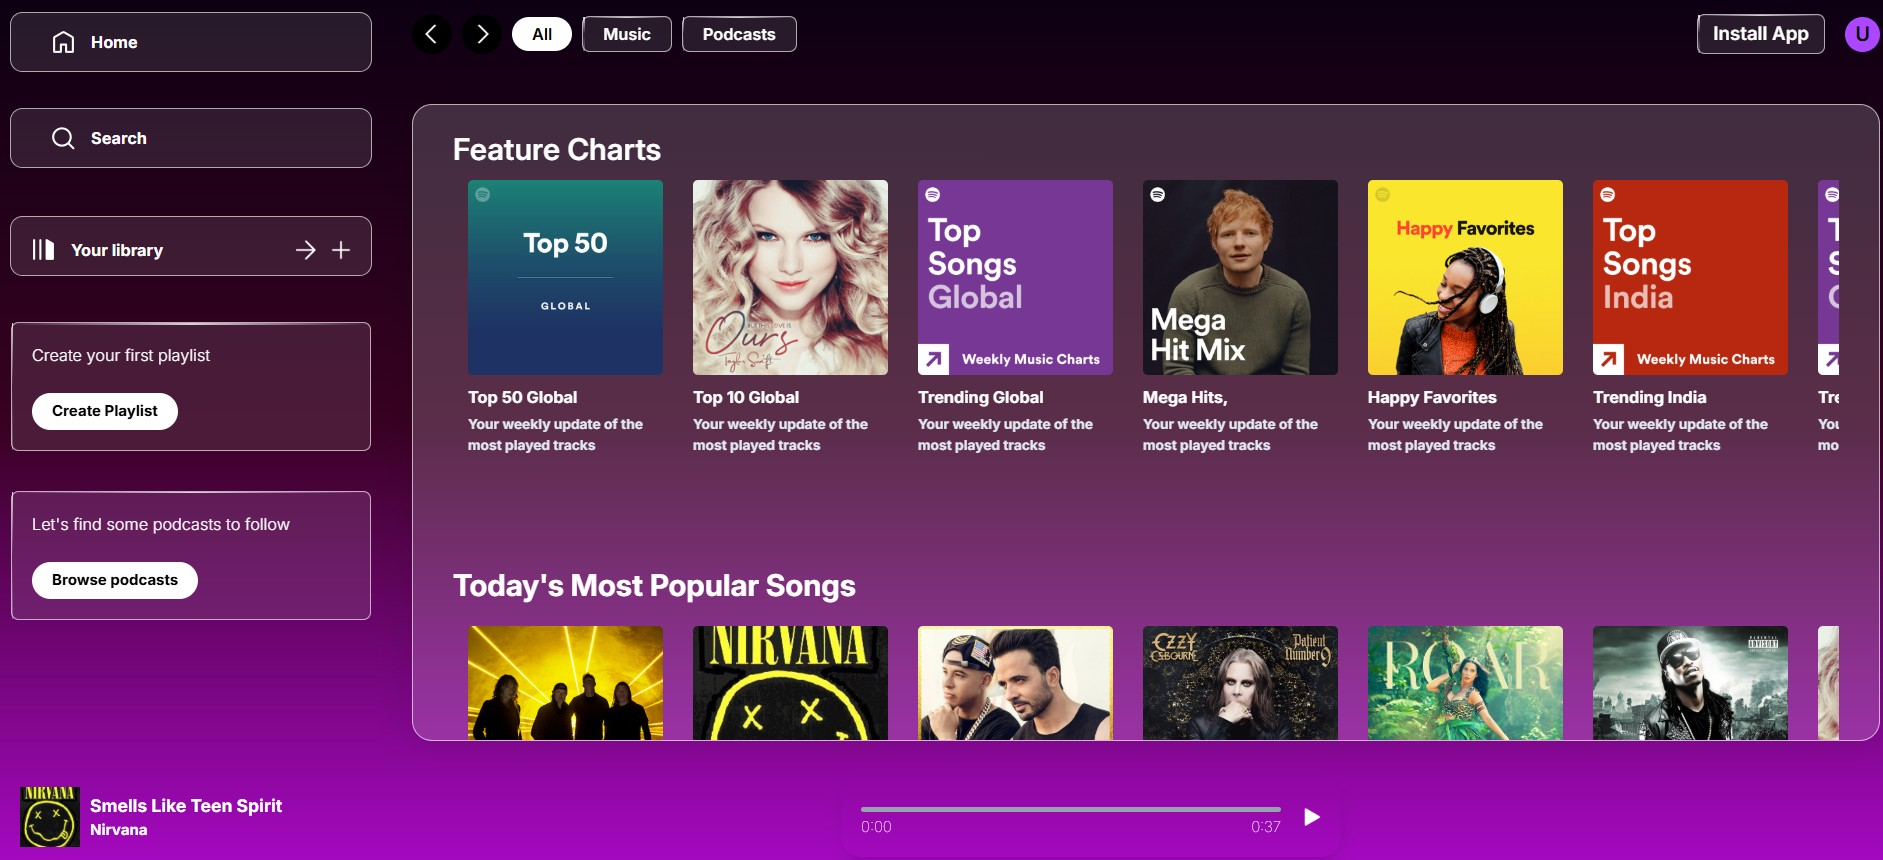
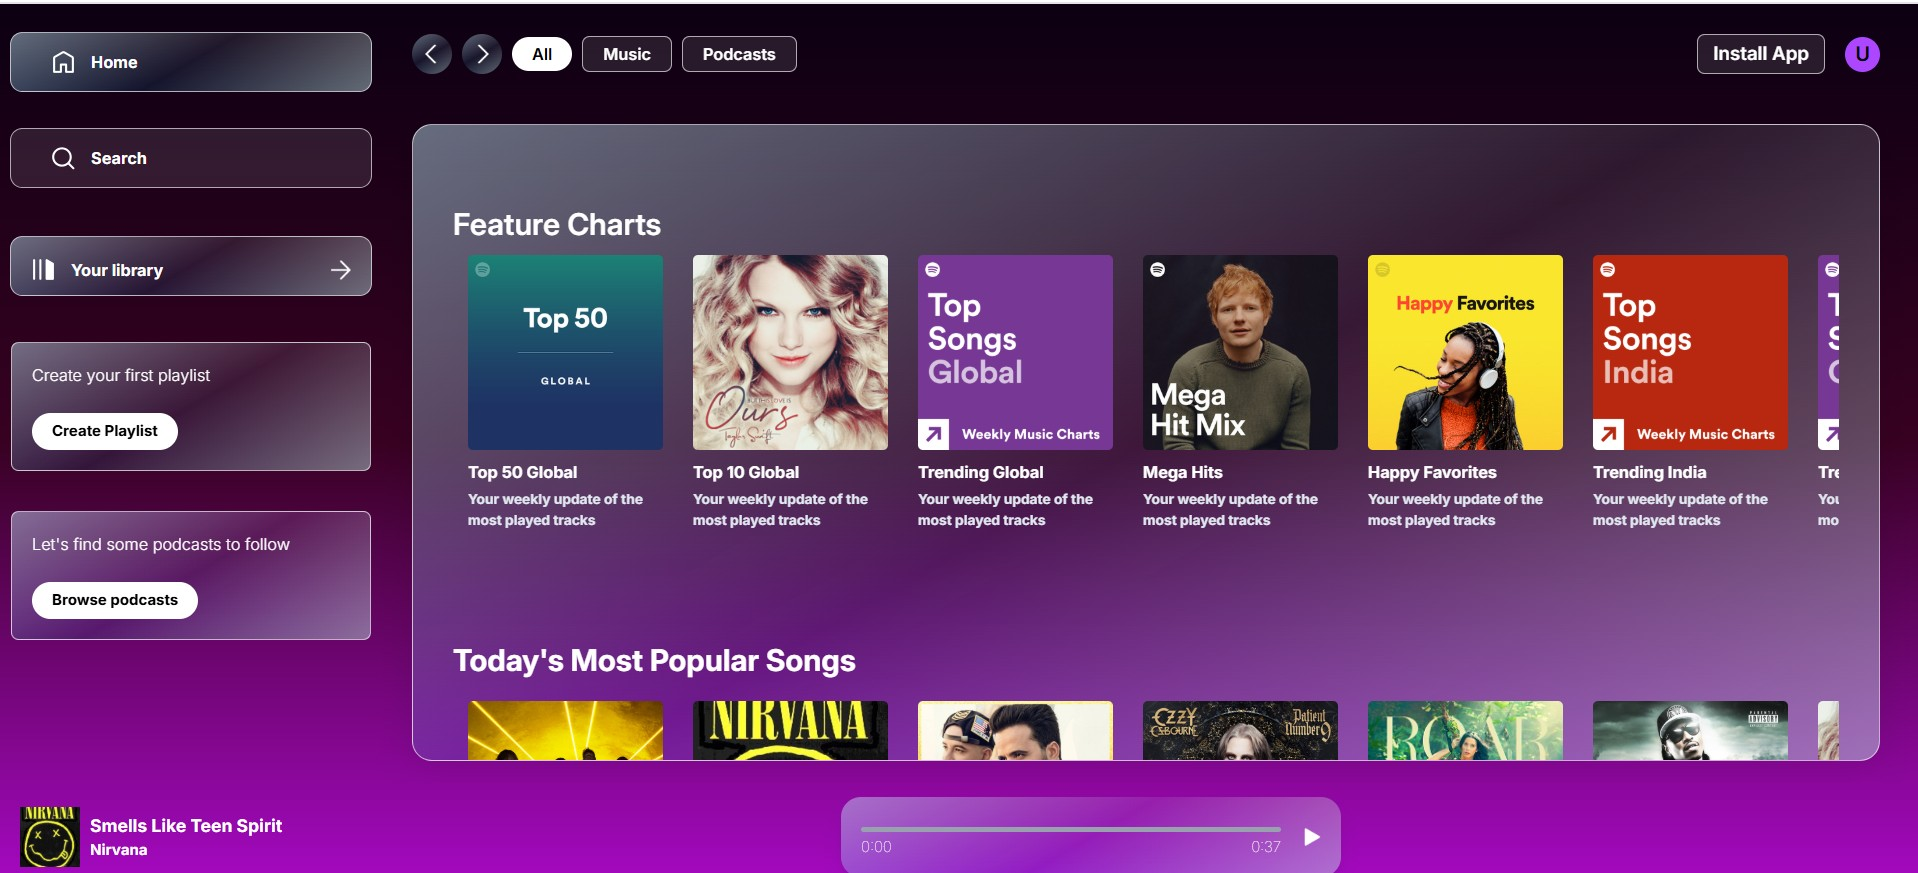
Change styling

diff --git a/src/components/Sidebar.jsx b/src/components/Sidebar.jsx
@@ -6,16 +6,17 @@ export function Sidebar() {
     return (
         <div className="w-[20%] h-full p-2 flex-col gap-6 text-white hidden lg:flex">
             <div className="h-[25%]  flex flex-col justify-around">
-                <div onClick={()=>navigate('/')} className="flex  glass-effect glass-button items-center gap-3 pl-8 cursor-pointer">
+                <div onClick={()=>navigate('/')} className="flex  glass-effect glass-diagonal-gradient  glass-button items-center gap-3 pl-8 cursor-pointer">
                     <img className='w-5' src={assets.home_icon} />
                     <p  className='text-[13px] font-bold'>Home</p>
                 </div>
                 <div className="flex glass-effect glass-button items-center gap-3 pl-8 cursor-pointer">
                     <img className='w-5' src={assets.search_icon} />
-                    <p  className='text-[13px] font-bold'>Search</p>
+                    <p contentEditable={true} className='text-[13px] font-bold'>Search</p>
+                    
                 </div>
             </div>
-            <div className='glass-effect glass-button h-[85%] rounded'>
+            <div className='glass-effect glass-diagonal-gradient  glass-button h-[85%] rounded'>
                 <div className='p-4 flex items-center justify-between'>
                     <div className='flex items-center gap-3'>
                         <img className='w-5' src={assets.stack_icon} />
@@ -23,14 +24,13 @@ export function Sidebar() {
                     </div>
                     <div className='flex items-center gap-3'>
                         <img className='w-4' src={assets.arrow_icon} />
-                        <img className='w-4' src={assets.plus_icon} />
                     </div>
                 </div>
-                <div className='p-4 bg-[#242424] glass-card my-8 font-light flex flex-col items-start justify-start gap-1 pl-4'>
+                <div className='glass-diagonal-gradient p-4 bg-[#242424] glass-card my-8 font-light flex flex-col items-start justify-start gap-1 pl-4'>
                     <p className='text-[13px]'>Create your first playlist</p>
                     <button className="px-4 py-1.5 bg-white text-[12px] text-black font-bold rounded-full mt-4">Create Playlist</button>
                 </div>
-                <div className="p-4 bg-[#242424] glass-card my-8  font-light flex flex-col items-start justify-start gap-1 pl-4 mt-4">
+                <div className="glass-diagonal-gradient p-4 bg-[#242424] glass-card my-8  font-light flex flex-col items-start justify-start gap-1 pl-4 mt-4">
                     <p className='text-[13px]'>Let's find some podcasts to follow</p>
                     <button className="px-4 py-1.5 bg-white text-[12px] text-black font-bold rounded-full mt-4">Browse podcasts</button>
                 </div>

diff --git a/src/index.css b/src/index.css
@@ -37,8 +37,9 @@ body {
   height: 48px;
 }
 
-.album-card:hover, .song-card:hover {
-   background: linear-gradient(-30deg,
+.album-card:hover,
+.song-card:hover {
+  background: linear-gradient(-30deg,
       rgba(220, 238, 227, 0.4),
       transparent 50%,
       rgba(191, 233, 247, 0.4)),
@@ -78,13 +79,6 @@ body {
   border-radius: 6px;
   background: rgba(255, 255, 255, 0.101);
   transition: transform 0.3s cubic-bezier(0.4, 0, 0.2, 1);
-   background: linear-gradient(-30deg,
-      rgba(220, 238, 227, 0.4),
-      transparent 50%,
-      rgba(191, 233, 247, 0.4)),
-    linear-gradient(to bottom,
-      rgba(216, 240, 248, 0.1),
-      rgba(0, 191, 255, 0.1));
 }
 
 
@@ -104,7 +98,24 @@ body {
   left: 0;
   width: 1px;
   height: 100%;
+} 
+
+.glass-diagonal-gradient {
+  background: linear-gradient(-30deg,
+      rgba(220, 238, 227, 0.4),
+      transparent 50%,
+      rgba(191, 233, 247, 0.4)),
+    linear-gradient(to bottom,
+      rgba(216, 240, 248, 0.1),
+      rgba(0, 191, 255, 0.1));
 }
+
+
+[contenteditable="true"]:focus {
+  outline: none;
+  border: none;
+}
+
 
 @theme inline {
   --radius-sm: calc(var(--radius) - 4px);

diff --git a/src/components/Navbar.jsx b/src/components/Navbar.jsx
@@ -8,8 +8,8 @@ export function Navbar() {
         <>
             <div className="w-full flex justify-between items-center font-semibold">
                 <div className="flex items-center gap-2">
-                    <img onClick={()=>navigate(-1)} className="album-card w-8 bg-black p-2 rounded-2xl cursor-pointer" src={assets.arrow_left} />
-                    <img onClick={()=>navigate(+1)} className="album-card w-8 bg-black p-2 rounded-2xl cursor-pointer" src={assets.arrow_right} />
+                    <img onClick={()=>navigate(-1)} className="glass-diagonal-gradient w-8 bg-black p-2 rounded-2xl cursor-pointer" src={assets.arrow_left} />
+                    <img onClick={()=>navigate(+1)} className="glass-diagonal-gradient  w-8 bg-black p-2 rounded-2xl cursor-pointer" src={assets.arrow_right} />
                     <p className="bg-white text-black text-[13px] px-4 py-1 rounded-2xl">All</p>
                 <p className="bg-[#242424] cursor-pointer glass-card text-[13px]  px-4 py-1 rounded-2xl">Music</p>
                 <p className="bg-[#242424] cursor-pointer glass-card text-[13px]  px-4 py-1 rounded-2xl">Podcasts</p>

diff --git a/src/assets/assets.js b/src/assets/assets.js
@@ -99,7 +99,7 @@ export const albumsData = [
     },
     {   
         id:4,
-        name: "Mega Hits,",
+        name: "Mega Hits",
         image: img11,
         desc:"Your weekly update of the most played tracks",
         bgColor:"#234e52"
@@ -127,7 +127,7 @@ export const albumsData = [
     },
     {   
         id:4,
-        name: "Mega Hits,",
+        name: "Mega Hits",
         image: img5,
         desc:"Your weekly update of the most played tracks",
         bgColor:"#234e52"

diff --git a/src/components/AudioPlayer.jsx b/src/components/AudioPlayer.jsx
@@ -73,7 +73,7 @@ export default function AudioPlayer({ currentSong }) {
     };
 
     return (
-        <div className="w-full max-w-md  text-white rounded-2xl p-4 flex items-center gap-4 shadow-lg">
+        <div className="glass-diagonal-gradient w-full max-w-md  text-white rounded-2xl p-4 flex items-center gap-4 shadow-lg">
 
             {/* Player Controls */}
             <div className="flex-1">
